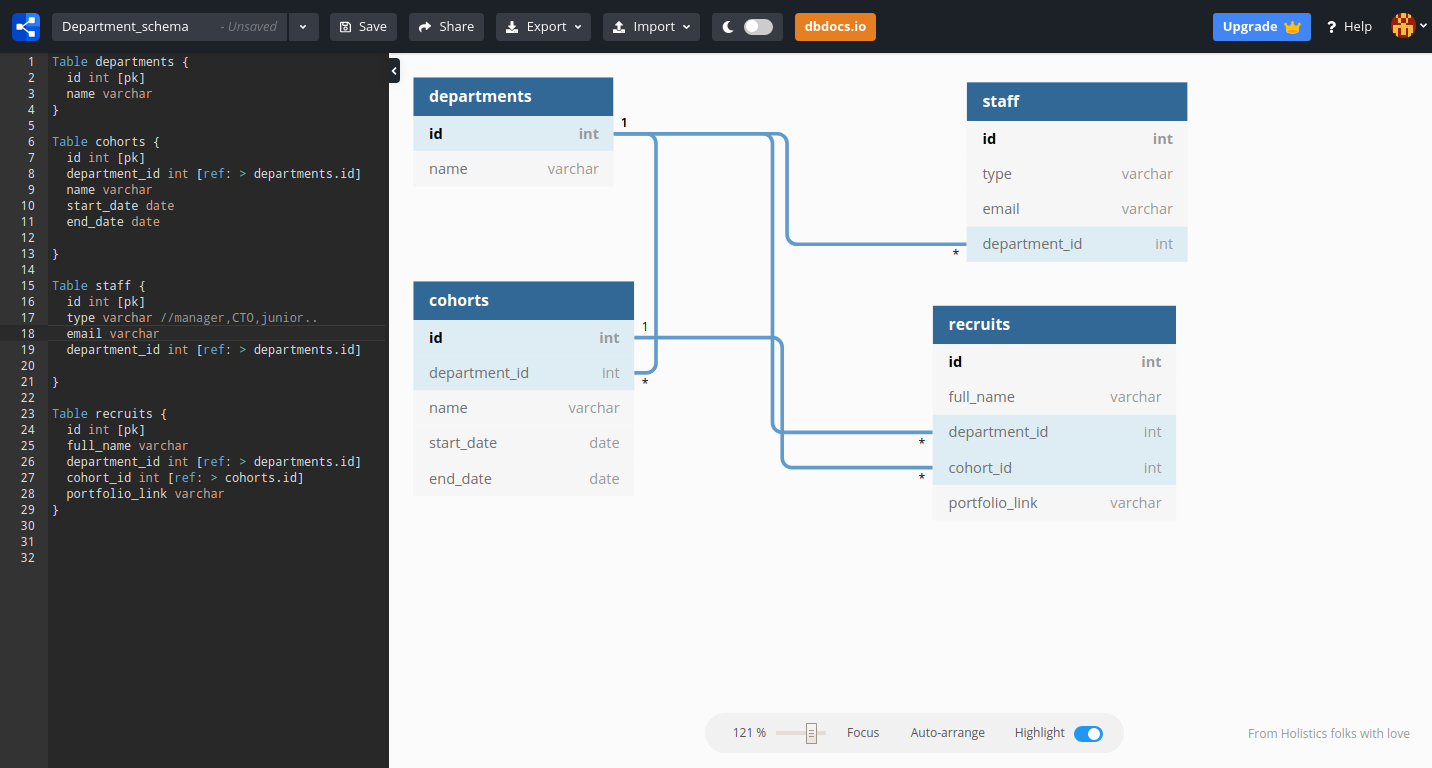
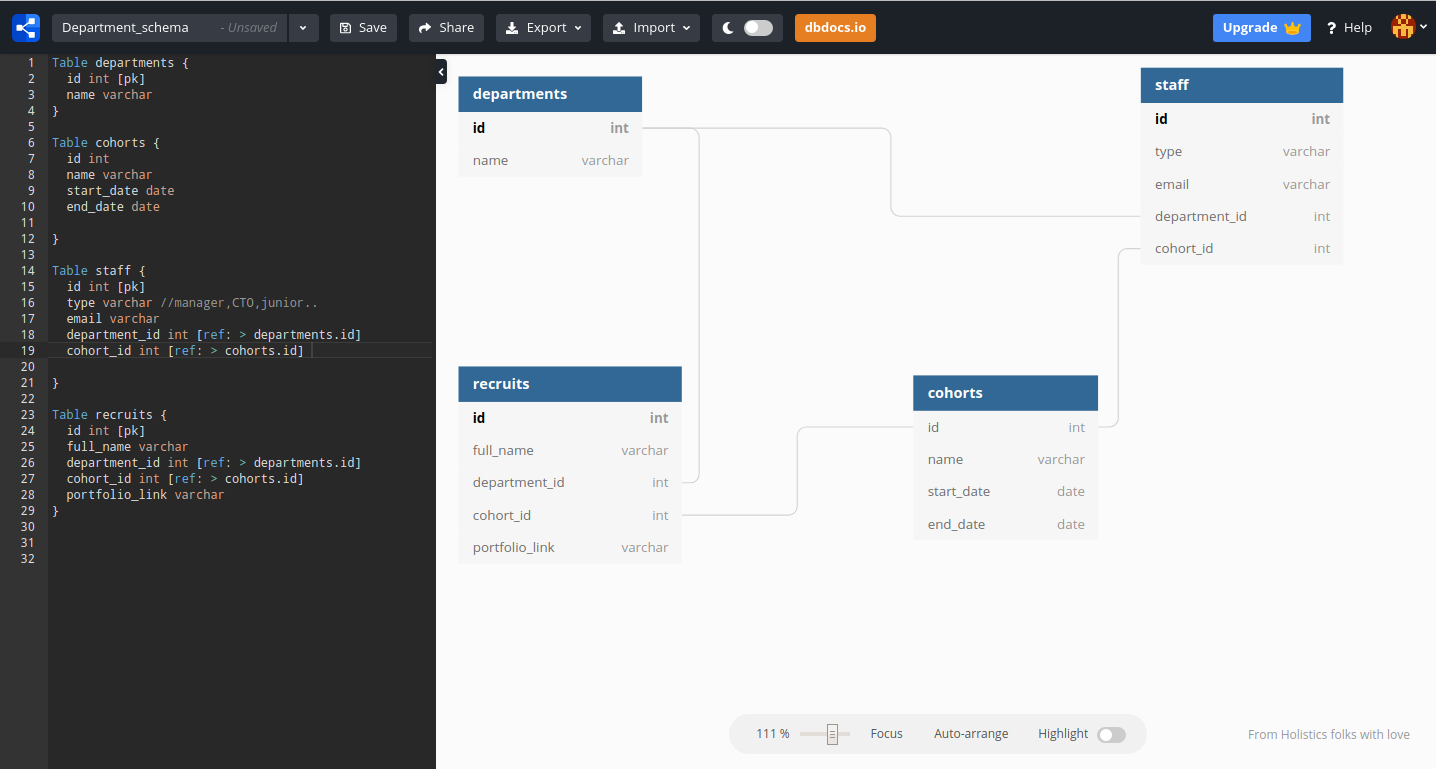
added examples of queries

diff --git a/content/topics/sql-schema-design/index.md b/content/topics/sql-schema-design/index.md
@@ -12,11 +12,20 @@ In this topic, we will discuss the schema design. Here is what Wikipedia says ab
 
 To help us understand the design process we will design an Umuzi.org physical database as an example. We will use Entity Relationship Diagram  (ERD) as a method to design our schema, I have selected [dbdiagram](https://dbdiagram.io) as a  tool to help us achieve this objective, I find the tool painless and straightforward, it provides fast feedback and I get to download a physical database right after, feel free to explore alternatives on the internet or experiment along.
 
+This topic requires that you are a little bit familiar with [SQL](https://www.youtube.com/watch?v=27axs9dO7AE).
+
 ## The brief
 
 
 As a developer working on a product you have been given a ticket that has the following requirements:
->Design a department database schema to handle data related to it.
+>Design a Umuzi's department database schema to handle data related to it.
+
+The strategist on the team has added the following details to your ticket:
+> The database you are about to design should handle the following queries
+-  if the user has a recruit's full name he/she should be able to find which cohort the recruit belongs to.
+- [] if the user has a cohort name he/she should be able to find recruit(s) in it.
+- [] if the user has a staff member's email he/she should be able to retrieve recruits  he/she is servicing
+
 
 ## The steps
 
@@ -55,7 +64,70 @@ We will consider only this scenario for now.
 
 ![step 3 image](./img/step_3.png)
 
+Step 4: Create queries
+
+So far we have identified entities, added attributed to our entities, and established relationships. It about time we create queries as required on our ticket.
+
+Do you recall the 4 queries? Great!
+
+1. [] if the user has a recruit's full name he/she should be able to find which cohort the recruit belongs to.
+
+Let have a closer look at the relationship between recruits and cohorts, one recruits should belong to one cohort at a time, `one to one relationship`.
+
+![recruit -> cohort relatioship](./img/recruit_to_cohort.png)
+
+From this relationship a SQL query could look as follow :
+
+```
+SELECT cohorts.name FROM cohorts
+ JOIN recruits ON cohorts.cohort.id=recruits.cohort_id
+WHERE recruits.name ='Lufuno Bourgier'
+```
+
+-  if the user has a cohort name he/she should be able to find recruit(s) in it.
+
+This is a reverse operation from the previous one, `one to many`.
+
+```
+SELECT recruits.name
+ FROM recruits
+ JOIN cohorts ON recruits.cohort_id = cohorts.id
+WHERE cohort.id = 'Cx'
+ ```
+
+-  if the user has a staff member's email he/she should be able to retrieve recruits  he/she is servicing
+
+There seems to be no direct link between a recruits entity and staff entity, however, they both share one property which is a `department id`, once the relationship between staff entity and the recruits entity is established, we will what is called a `many to many` relationships as illustrated bellow.
+
+![many to many relationship](./img/many_to_many.png)
+
+A SQL query could look as follow:
+
+```
+SELECT recruits.name
+ FROM recruits
+ JOIN departments on recruits.department_id = department.id
+ JOIN staff on department.id = staff.department_id
+WHERE staff.email = 'name.surname@umuzi.org'
+```
+
+
+
 Voila!
+
+## A note about redundant records
+
+Redundant tables and fields are a nightmare for database designers and administrators.
+
+They draw on system resources in order to keep them secure, current and backed up. Redundant records may not seem like much when you are talking about just a dozen or so.
+
+But in large databases where redundant fields could number thousands or millions, the computing resource overheads are substantial.
+
+They unnecessarily increase the size of the database thus reducing efficiency and increasing the risk of data corruption.
+
+Of course, there are times where redundancy may be necessary but this should be the exception and not the rule.
+
+Even when redundancy is allowed, the reasons should be clearly documented to ensure removal by future database administrators when the reasons are no longer valid.
 
 ## Conclusion
 
@@ -64,7 +136,8 @@ Designing a database schema design is fairly a simple process, yet can prove to 
 
 ## For more:
 
-
 - To find out more about the difference bettwen **data model** and **database schema** please click [here](https://www.quora.com/What-is-the-difference-between-a-data-model-and-database-schema)
 - To find more about *database design* please click [here](https://www.guru99.com/database-design.html)
+- [Learn SQL](https://www.w3schools.com/sql/sql_intro.asp).
 - Find out more about relational database [here](https://dev.to/lmolivera/everything-you-need-to-know-about-relational-databases-3ejl)
+- Check out [this article](https://likegeeks.com/database-design-mistakes/) on few mistakes in database design
